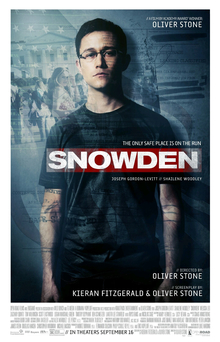
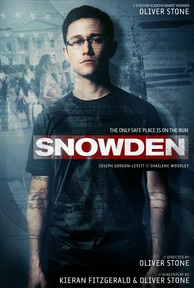
о

diff --git a/movies.html b/movies.html
@@ -1,0 +1,10 @@
+<!DOCTYPE html>
+<html>
+<head><head><link rel="stylesheet" href="style.css">
+<title>Movies</title>
+</head>
+<body>
+
+<table><tr><td><img src="images/Snowden_film_poster.jpg" alt="picture of Snowden" width="320" height="320"></td><td>
+Snowden is a 2016 biographical political thriller film directed by Oliver Stone and written by Stone and Kieran Fitzgerald, based on the books The Snowden Files by Luke Harding and Time of the Octopus by Anatoly Kucherena. The film stars an ensemble cast that includes Joseph Gordon-Levitt as the title character, Edward Snowden, with Shailene Woodley, Melissa Leo, Zachary Quinto, Tom Wilkinson, Scott Eastwood, Logan Marshall-Green, Timothy Olyphant, Ben Schnetzer, LaKeith Lee Stanfield, Rhys Ifans and Nicolas Cage also starring. Filming began on February 16, 2015 in Munich, Germany.
+Snowden screened at Comic-Con on July 21, 2016, before premiering at the 2016 Toronto International Film Festival on September 9, 2016. The film was theatrically released in the United States on September 16, 2016, by Open Road Films and on September 22 in Germany.[4] It received mixed reviews and was a box office disappointment, grossing $37.3 million worldwide against its $40 million budget.</td></tr></table>

diff --git a/index.html b/index.html
@@ -5,12 +5,12 @@
 <body><h1><center>WELCOME to ERIC'S WEB PAGE!</center></h1>
 <table><tr><td style="width:100%">
 
-<p>Full name: Eratbek Mamatov<hr>
-Date of birth: 1998 04 25<hr>
-e-mail: mamatov_2504@mail.ru or e.mamatov@student.inha.uz<hr></p>
-</br>
+Full name: Eratbek Mamatov</br>
+Date of birth: 1998 year 25th of April</br>
+e-mail: mamatov_2504@mail.ru or e.mamatov@student.inha.uz<br>
+web-page: <a href="http://eratbek.github.io">eratbek.github.io</a>
 <h3>Do you want to know what type of movies do I like?</h3>
-<p><a href="snowden.html">Here</a>  you can find what kind of movies I like and have recently watched</p>
+<p>Click <a href="movies.html">here</a>  you can find what kind of movies I like and have recently watched</p>
 </br></td><td style="width:0%"><img src="images/erat.jpg" alt="In black glasses" width="450" height="410"></td></tr></table>
 </body>
 </html>

diff --git a/style.css b/style.css
@@ -1,8 +1,15 @@
 @charset "utf-8";
 /* CSS Document */
 body{
-	background-color:#D0FF9A;
+	background-color:rgba(15,117,4,0.52);
+
 }
 h1{
 	color:#86282A;}
+a{
+	color:rgba(233,5,9,1.00);
+		text-decoration:none;}
 
+a:hover{
+	color:#F4F3F3;
+	text-decoration:underline;}
